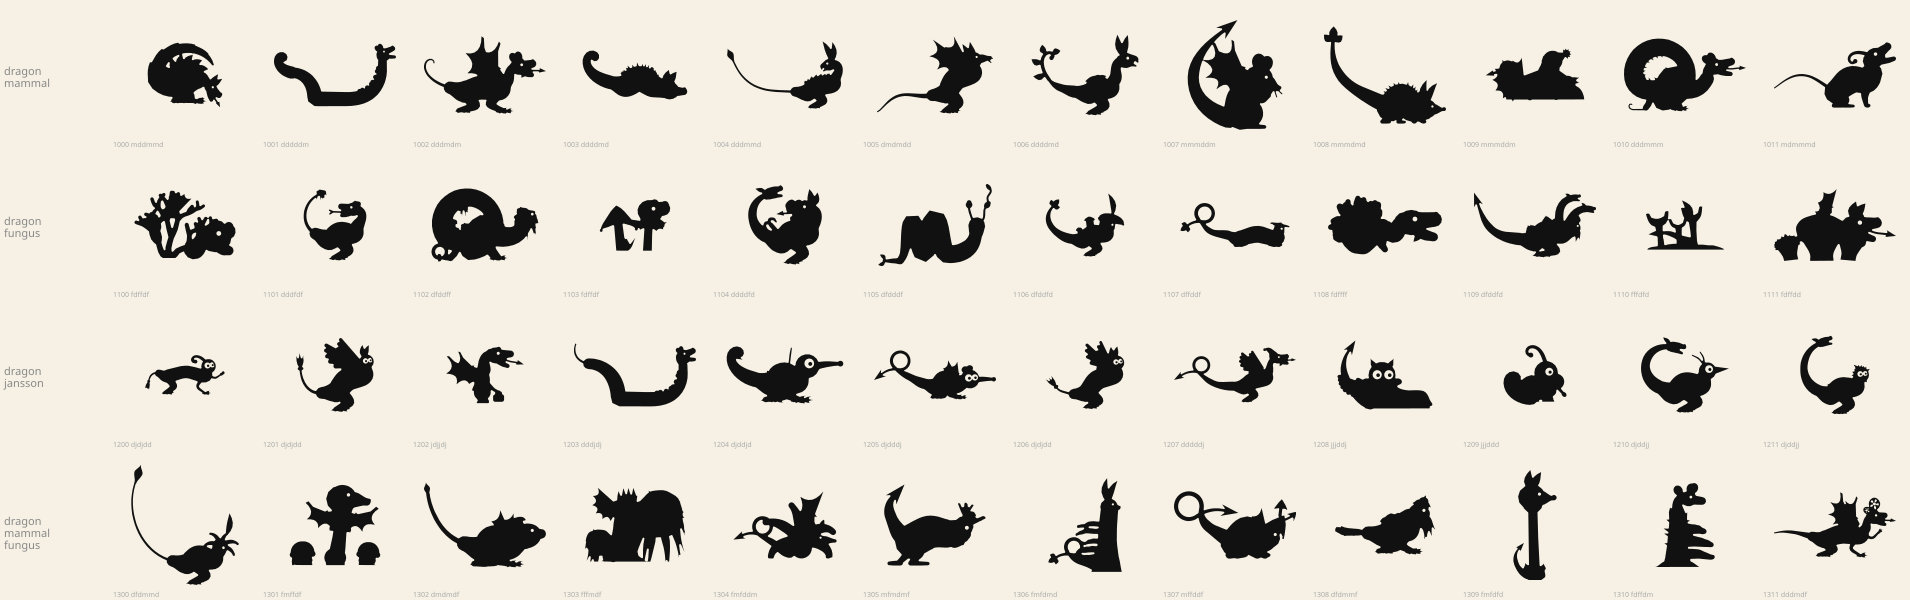
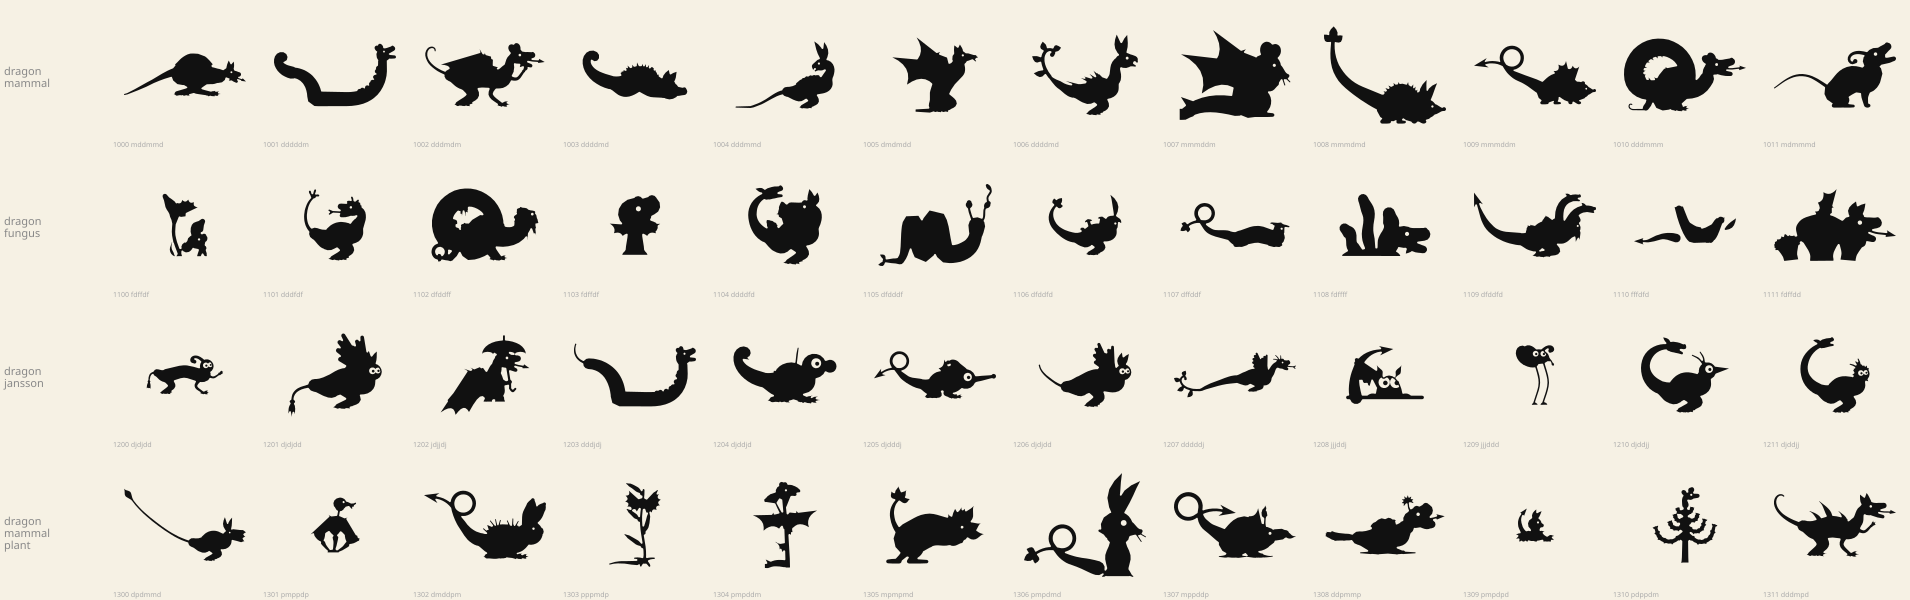
dragon: M2 fix run 2 - distinct draco/wyvern/passant poses, plump fire salamander, big-headed ouroboros

diff --git a/src/gen/tags/dragon.js b/src/gen/tags/dragon.js
@@ -500,22 +500,22 @@ const serpent = (r, o = {}) => ({ type: 'dragonSerpent', r: r.range(4.4, 5.6), h
 // ---------------------------------------------------------------- species
 const species = [
   { name: 'bestiary draco', w: 3, genes: r => ({ // Aberdeen/Harley: winged, two-legged, small eared head, long looping tail
-    chassis: beast(r, { legs: 'biped', pitch: r.range(0.3, 0.6), r: r.range(6, 7.4), len: r.range(17, 22), headS: r.range(0.6, 0.7) }),
-    head: dog(r, { neck: sneck(r, 2.4, 3.6), mz: r.range(1.35, 1.75) }),
-    limbs: legs(r), tail: r.wpick([[3, knot(r, { len: r.range(8, 11) })], [1, coil(r)], [1.5, tl(r, { len: r.range(4.5, 6.5), w1: 0.24, curl: r.range(0.6, 1.2), tip: 'dragonScroll', tipS: r.range(1, 1.25) })]]),
-    dorsal: feather(r, { tilt: r.range(0.55, 0.85), feathers: r.int(5, 6) }), crown: ears(r), surface: eye(),
+    chassis: beast(r, { legs: 'biped', pitch: r.range(-0.05, 0.12), r: r.range(6.8, 7.8), len: r.range(19, 23), headS: r.range(0.62, 0.72), legAt: 0.35, tailLift: r.range(-0.1, 0.15) }),
+    head: dog(r, { neck: sneck(r, 2.8, 3.8), mz: r.range(1.35, 1.75) }),
+    limbs: legs(r, { lift: r.range(0.9, 1.1) }), tail: r.wpick([[3, tl(r, { len: r.range(10, 12.5), w1: 0.22, curl: r.range(0.3, 0.7), wave: r.range(0.3, 0.7), up: false })], [1.5, tl(r, { len: r.range(9.5, 12), w1: 0.24, curl: r.range(0.4, 0.8), wave: 0.4, up: false, tip: 'dragonScroll', tipS: r.range(1, 1.25) })]]),
+    dorsal: feather(r, { tilt: r.range(0.3, 0.5), size: r.range(3, 3.5), feathers: r.int(5, 6) }), crown: ears(r), surface: eye(),
   }) },
   { name: 'wyvern', w: 3.4, genes: r => ({
-    chassis: beast(r, { legs: 'biped', pitch: r.range(0.45, 0.8), len: r.range(16, 21) }),
+    chassis: beast(r, { legs: 'biped', pitch: r.range(0.85, 1.05), len: r.range(15, 19), legAt: 0.05, neckA: r.range(-1.4, -1.1), tailLift: -0.4 }),
     head: r.wpick([[2, dog(r, { neck: sneck(r, 1.6, 2.6), gape: r.range(0.35, 0.55), tongue: 'barb' })], [1, longjaw(r, { neck: sneck(r, 1.4, 2.2) })]]),
-    limbs: legs(r, { lift: r.range(0.9, 1.2) }), tail: r.wpick([[2, knot(r, { up: r.chance(0.5) })], [2, tl(r, { curl: r.range(1.4, 2.4) })]]),
-    dorsal: r.wpick([[3, batw(r)], [1, heraldic(r)]]), crown: r.wpick([[2, horns(r)], [2, ears(r)]]), surface: eye(),
+    limbs: legs(r, { lift: r.range(0.9, 1.2) }), tail: r.wpick([[2, coil(r, { len: r.range(9, 12), up: false })], [2, tl(r, { up: false, curl: r.range(2, 3), len: r.range(8, 10) })]]),
+    dorsal: batw(r, { size: r.range(4.2, 5), tilt: r.range(0.9, 1.2), at: r.range(0.6, 0.72) }), crown: r.wpick([[2, horns(r)], [2, ears(r)]]), surface: eye(),
   }) },
   { name: 'heraldic dragon passant', w: 3, genes: r => ({
-    chassis: beast(r, { legs: 'quad', pawUp: r.chance(0.75), pitch: r.range(0.02, 0.16), len: r.range(20, 25) }),
+    chassis: beast(r, { legs: 'quad', pawUp: true, pitch: r.range(-0.04, 0.06), len: r.range(21, 26), liftK: 1.6 }),
     head: dog(r, { neck: sneck(r, 1.5, 2.4), gape: r.range(0.35, 0.5), tongue: 'barb', beard: r.chance(0.4) ? 0.8 : 0 }),
-    limbs: legs(r), tail: tl(r, { curl: r.range(1.6, 2.6), wave: r.range(0.4, 1) }),
-    dorsal: heraldic(r), crown: horns(r), surface: eye(),
+    limbs: legs(r, { len: r.range(2.4, 2.8) }), tail: tl(r, { curl: r.range(2.2, 3), wave: r.range(0.8, 1.3), len: r.range(9, 12) }),
+    dorsal: folded(r, { at: r.range(0.55, 0.65) }), crown: horns(r), surface: eye(),
   }) },
   { name: 'dragon rampant', w: 2, genes: r => ({
     chassis: beast(r, { legs: 'rampant', pitch: r.range(1.0, 1.22), len: r.range(17, 21), neckA: r.range(-1.35, -1.1), tailLift: -0.3 }),
@@ -573,11 +573,11 @@ const species = [
     limbs: legs(r), tail: tl(r, { len: r.range(7, 9.5), w1: 0.34, mid: 0.4, up: true, curl: r.range(2.2, 3), wave: 0.3, tip: 'dragonHead2', tipS: r.range(0.95, 1.15) }),
     dorsal: r.wpick([[2, batw(r, { size: r.range(2.8, 3.4) })], [1, feather(r, { size: r.range(2.8, 3.4) })], [1, none()]]), crown: ears(r), surface: eye(),
   }) },
-  { name: 'fire salamander', w: 1.5, genes: r => ({ // the bestiary's, which lives in flame
-    chassis: beast(r, { legs: 'quad', len: r.range(17, 21), r: r.range(7.4, 8.4), arch: r.range(0.3, 0.5), headS: r.range(0.8, 0.9), neckA: r.range(-1.05, -0.75), neckL: 1.1, neckW: 0.7, belly: 1.06 }),
-    head: dog(r, { mz: r.range(1.2, 1.6), tipR: r.range(0.42, 0.5), tongue: r.pick(['flame', 'fork', null]), gape: r.range(0.3, 0.45) }),
-    limbs: legs(r, { lift: r.range(0.35, 0.55), len: r.range(1.6, 2) }), tail: tl(r, { up: true, curl: r.range(1, 1.8), tip: 'dragonFlame', tipS: r.range(1.6, 2), len: r.range(6, 8), w1: 0.3 }),
-    dorsal: ridge(r, 'flame', { n: r.int(4, 6), h: r.range(0.9, 1.2), wid: 0.4 }), crown: r.wpick([[1, ears(r, { len: r.range(0.9, 1.3) })], [1, none()]]), surface: eye(),
+  { name: 'fire salamander', w: 1.5, genes: r => ({ // the bestiary's, which lives in flame: plump, head up, flame-tufted tail held high
+    chassis: beast(r, { legs: 'quad', len: r.range(13, 16), r: r.range(8.4, 9.4), pitch: r.range(0.12, 0.25), arch: r.range(0.5, 0.75), headS: r.range(0.85, 0.95), neckA: r.range(-1.2, -0.95), neckL: 1, neckW: 0.75, belly: 1.12, chest: 1, liftK: 1.4, tailLift: 0.9 }),
+    head: dog(r, { mz: r.range(1.1, 1.4), tipR: r.range(0.44, 0.52), tongue: r.pick(['flame', 'flame', 'fork']), gape: r.range(0.35, 0.5), nose: 0, beard: 0 }),
+    limbs: legs(r, { lift: r.range(0.6, 0.8), len: r.range(2, 2.4), w: 0.56 }), tail: tl(r, { up: true, curl: r.range(1.6, 2.4), wave: 0.3, tip: 'dragonFlame', tipS: r.range(2, 2.5), len: r.range(6, 7.5), w0: 1, w1: 0.38 }),
+    dorsal: ridge(r, 'flame', { n: r.int(3, 4), h: r.range(1.1, 1.4), wid: 0.6 }), crown: none(), surface: eye(),
   }) },
   { name: 'jaculus', w: 1.5, genes: r => ({ // the javelin-snake that flies
     chassis: serpent(r, { mode: 'wave', len: r.range(24, 32), amp: r.range(2.4, 3.6), humps: 1, rise: r.range(3, 4.5), riseA: r.range(0.7, 1.1), backT: [0.5, 0.92], r: r.range(4.2, 5) }),
@@ -604,10 +604,10 @@ const species = [
     dorsal: r.wpick([[3, batw(r, { size: r.range(3.6, 4.4), at: r.range(0.6, 0.75), far: false })], [1.5, feather(r, { size: r.range(3.6, 4.4), at: r.range(0.6, 0.75), far: false })]]), crown: r.wpick([[1, ears(r, { len: r.range(0.9, 1.3) })], [1, none()]]), surface: eye(),
   }) },
   { name: 'ouroboros', w: 2, genes: r => ({
-    chassis: serpent(r, { mode: 'ring', R: r.range(3.3, 4.4), r: r.range(4.2, 5.2), gap: r.range(0.4, 0.6), headS: r.range(0.95, 1.1), radKeys: [[0, 0.16], [0.2, 0.62], [0.55, 1], [0.9, 0.86], [1, 0.7]], backT: [0.5, 0.9], legsAt: r.chance(0.3) ? [{ t: 0.47, role: 'fore' }] : [] }),
-    head: dog(r, { gape: r.range(0.4, 0.55), tongue: null, mz: r.range(1.3, 1.6), beard: 0 }),
+    chassis: serpent(r, { mode: 'ring', R: r.range(3.6, 4.4), r: r.range(3.8, 4.6), gap: r.range(0.55, 0.75), headS: r.range(1.5, 1.75), radKeys: [[0, 0.16], [0.2, 0.62], [0.55, 1], [0.9, 0.86], [1, 0.7]], backT: [0.5, 0.9], legsAt: [{ t: 0.45, role: 'fore' }] }),
+    head: dog(r, { gape: r.range(0.45, 0.6), tongue: null, mz: r.range(1.4, 1.7), beard: 0, brow: 0.32 }),
     limbs: legs(r, { lift: 0.3, len: 1.2 }), tail: none(),
-    dorsal: r.wpick([[2, none()], [1, ridge(r, 'saw', { n: r.int(8, 12), wid: 0.26, h: 0.5 })], [1.2, batw(r, { at: 0.75, size: r.range(3, 3.8) })]]), crown: r.wpick([[2, ears(r, { len: r.range(1, 1.5) })], [1, none()]]), surface: eye(),
+    dorsal: r.wpick([[2, none()], [1, ridge(r, 'saw', { n: r.int(8, 12), wid: 0.26, h: 0.5 })], [1.2, batw(r, { at: 0.75, size: r.range(3, 3.8) })]]), crown: r.wpick([[2, horns(r, { len: r.range(1.4, 2) })], [1, ears(r, { len: r.range(1.4, 1.9) })]]), surface: eye(),
   }) },
   { name: 'interlace beast', w: 1.6, genes: r => ({ // Insular / Romanesque initial: knotted, biting back, leaf-tailed
     chassis: beast(r, { legs: 'quad', len: r.range(20, 26), r: r.range(4.6, 5.6), arch: r.range(0.3, 0.6), headS: r.range(0.78, 0.9), neckA: r.range(-1.25, -1), neckW: 0.6, haunch: true }),

diff --git a/docs/tags/dragon.md b/docs/tags/dragon.md
@@ -72,3 +72,16 @@ done). Sheets: `out/roads/03-dragon-species.png`, `out/roads/03-dragon-mixes.png
 - Sea serpent: body r 6.4-7.4, shorter, 1-2 humps, fewer bigger fins. Long: thicker, bigger head, hairline whiskers removed, 6-8 bold mane lobes.
 - Fire salamander: shorter and plumper, head raised, big flame tail tuft, fewer bigger flame spines.
 - Still weak (minor, not addressed): jaculus (crumpled wings), sleeping drake/serra (heads unclear), ouroboros plain rings (small head).
+
+### M2 fix run 2 (2026-11-13, judged at --cell 60 only)
+- Still 25 species. Winged trio separated by overall outline: bestiary draco is now long and
+  low (near-level body, long straight trailing tail, small feather wing); wyvern stands bolt
+  upright on two legs with big raised bat wings and the tail curled under; heraldic passant is
+  a horizontal four-legger, always paw raised, wings folded along the back, tail curled high.
+- Fire salamander rebuilt as a plump, high-standing short beast, head up, flame tongue, 3-4
+  big flame crests and a big flame-tufted tail held up. Still the most blob-like; next cut
+  candidate if it bothers.
+- Ouroboros: thinner ring, head 1.5-1.75x with brow, horns or long ears, always a foreleg,
+  so the head breaks the ring outline at the top.
+- Weak: draco is thin at print size; fire salamander chunky; jaculus, sleeping drake, sea
+  serpent minors untouched.
